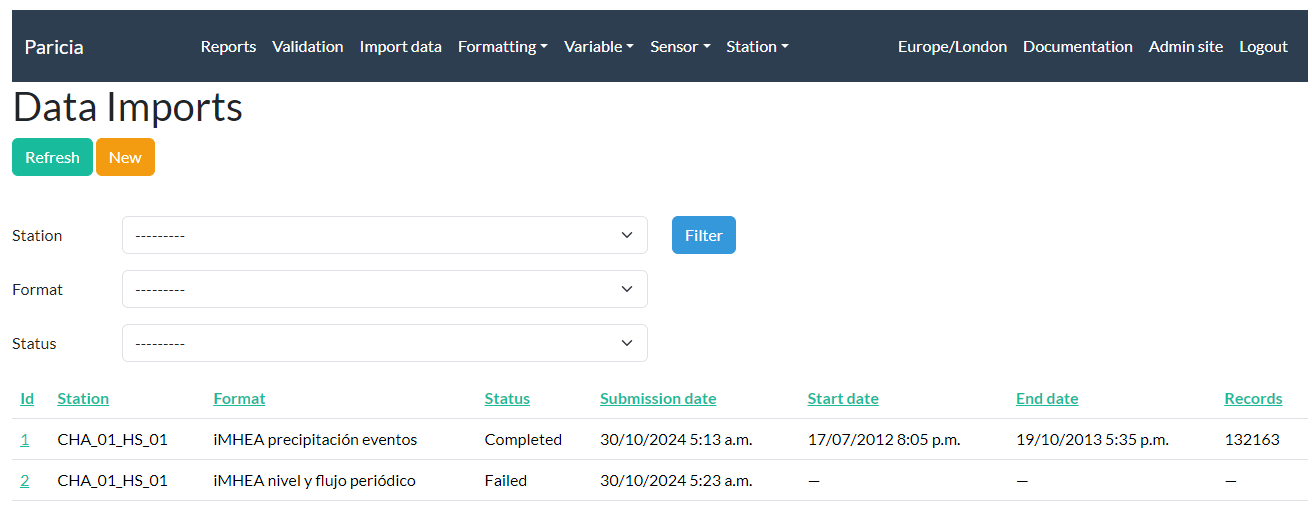
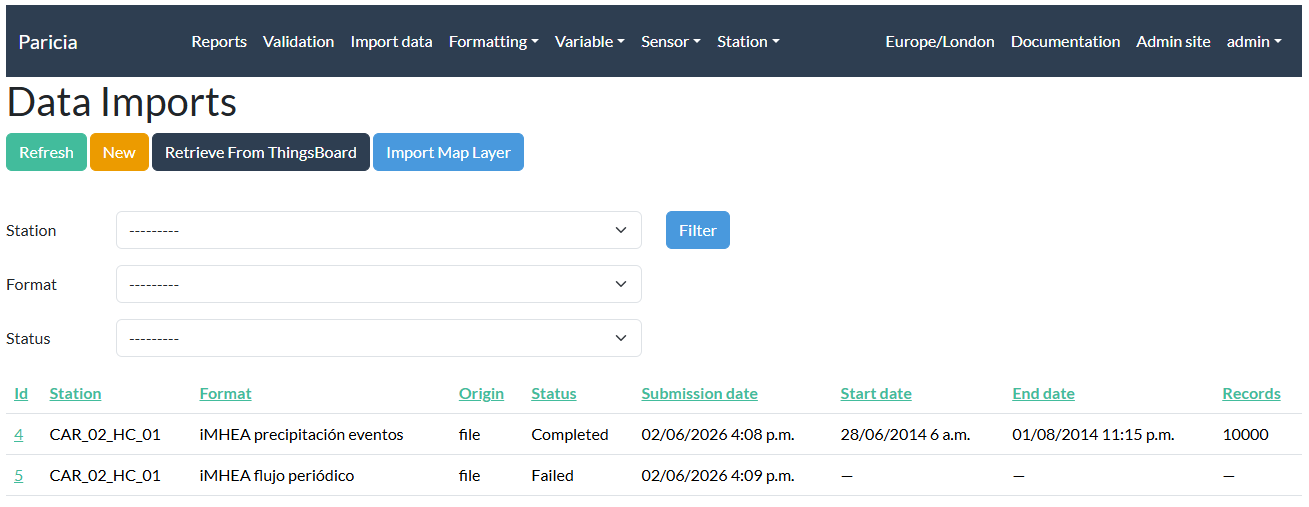
Add documentation for tb import

diff --git a/docs/en/importing_data.md b/docs/en/importing_data.md
@@ -51,3 +51,15 @@ Once the form is complete, click `Save` at the top of the page and the import pr
 ![Data ingestion failed](assets/images/importing_failed.png)
 
 Once the data has been ingested successfully, it will be available to validate in the [Validation screen](validation.md) and in the Report screen, if the Station it belongs to is labelled as public or internal.
+
+## Importing data from Thingsboard
+
+To import data from Thingsboard, you must first enter your ThingsBoard credentials in the `Account` page (this can be found by clicking the dropdown on your username in the top right-hand corner). Following this, generate an access token by selecting `Save Thingsboard` followed by `Generate Token from API`.
+
+![Thingsboard credentials](assets/images/thingsboard_credential.png)
+
+To retrieve your data, in `Import data`, select the `Retrieve from ThingsBoard` button at the top of the page. You will need to create an Import Map, which maps the name of the variable and device in Thingsboard to a Variable element (see [`Adding elements`](adding_elements.md) for more details). Ensure variable and device names match the details in Thingsboard, otherwise your import will fail.
+
+![Retrieving data from Thingsboard](assets/images/retrieve_thingsboard.png)
+
+You will also need to create Format and Classification elements for your Thingsboard import, though many of the processiong options relevant to uploading your own data file can be disregarded. For the Format, only `Visibility`, `Format name` and the Thingsboard data checkbox need to be specified. For the Classification, only `Visibility`, `Format` and `Variable` need specifying (and optionally if the data is cumulative, incremental or uses a resolution).
